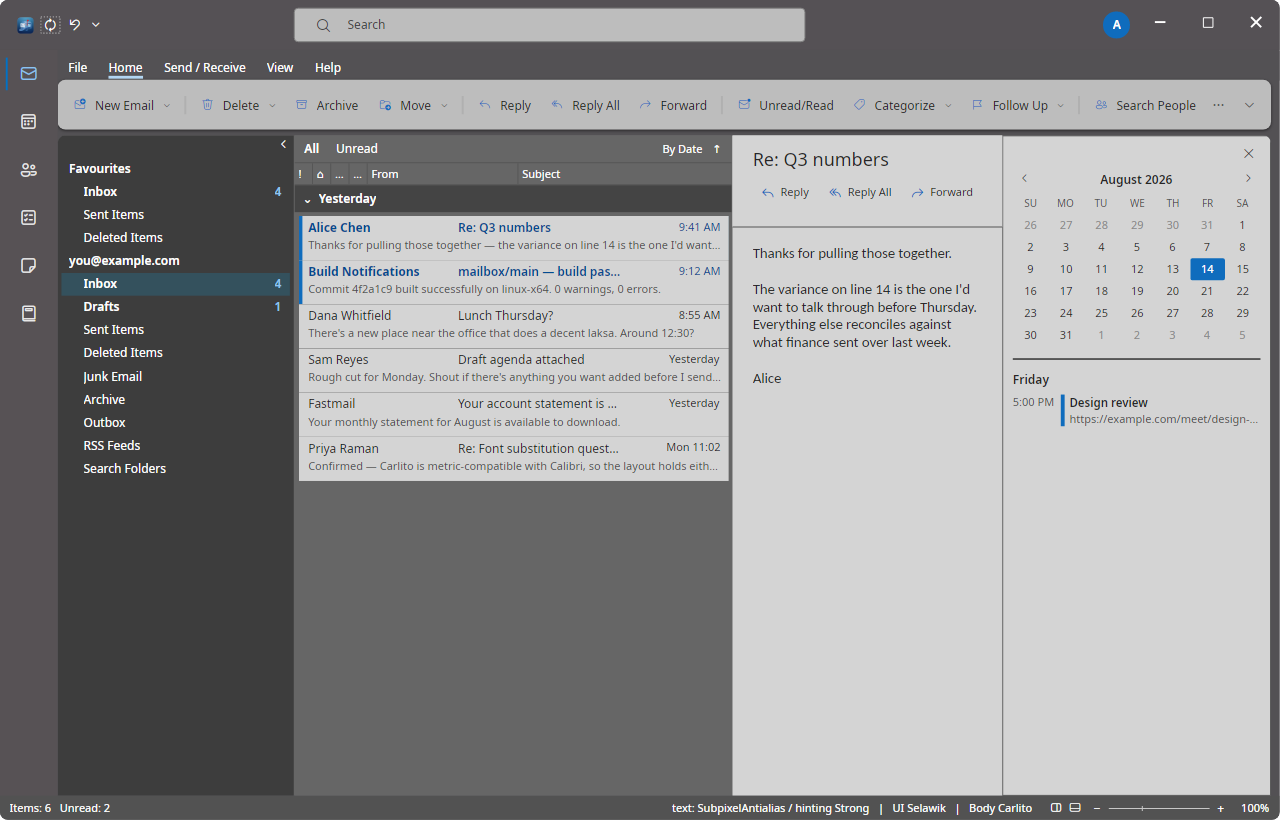
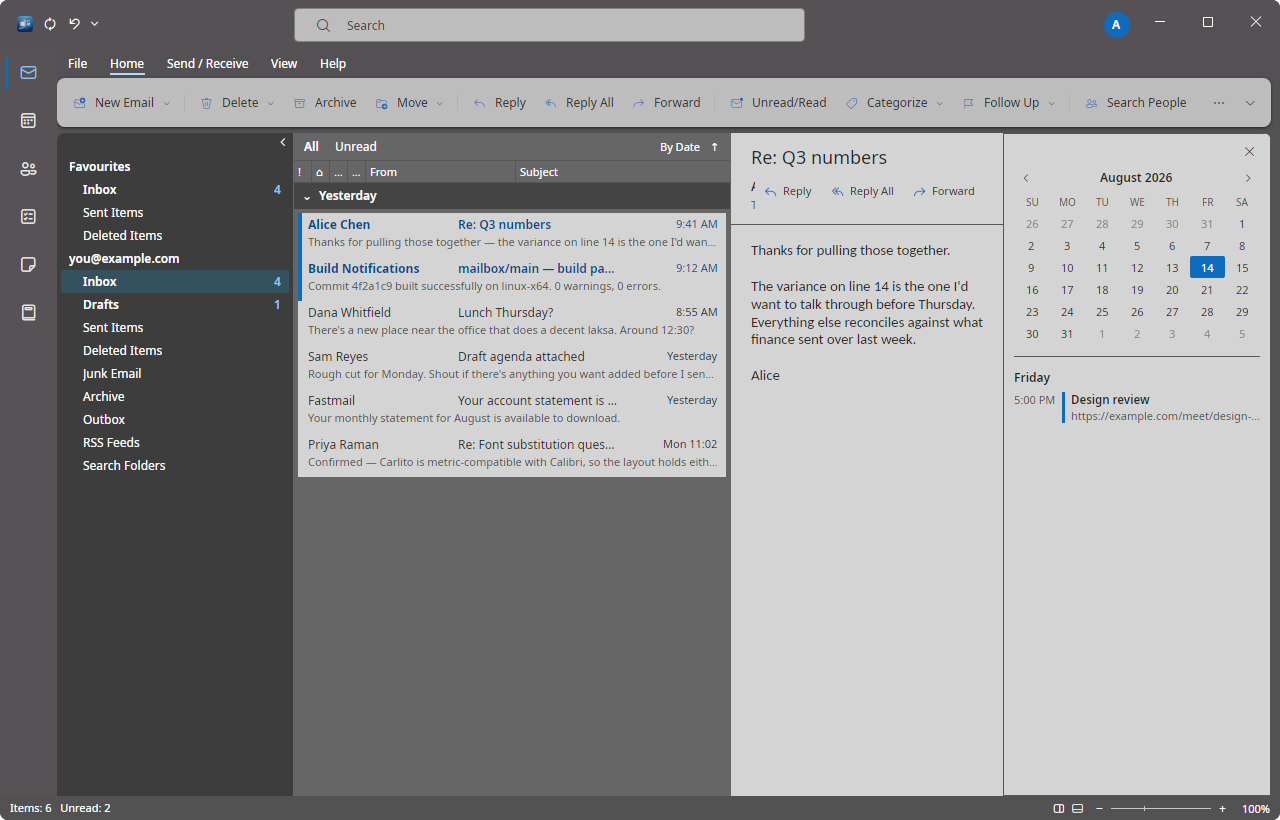
Make the control theme follow our palette, and clear the footer
Menu flyouts in the light themes were dark text on dark ground, legible
only while hovered. The control theme supplies the templates and those
templates reach for its palette rather than ours, so every surface not
explicitly restyled painted in its scheme — the item background was
transparent, which is why hovering, and only hovering, looked right.

ControlThemePalette repoints that palette at the tokens. It fixes every
such surface at once and keeps fixing them for controls nobody has
styled yet; restyling each presenter as it is noticed is the same bug
found repeatedly. The map is kept out of the Avalonia layer so a test
can check it, since popups are separate surfaces on Linux and never
appear in a window capture.

The status bar also carried the text-rendering diagnostics across it.
Those belong in the log; the reference's bar carries the counts and
nothing else.

diff --git a/src/Mailbox.Theming/Tokens/ControlThemePalette.cs b/src/Mailbox.Theming/Tokens/ControlThemePalette.cs
@@ -1,0 +1,48 @@
+namespace Mailbox.Theming.Tokens;
+
+/// <summary>
+/// Maps the control theme's own palette onto ours.
+/// </summary>
+/// <remarks>
+/// The control theme supplies templates, and those templates reach for <em>its</em> palette
+/// rather than the token set. Anywhere a template paints a surface that has not been explicitly
+/// restyled, its scheme shows through: menu flyouts arrived on a dark presenter in the light
+/// themes, with our dark text on top, readable only where a hover lit the row behind it.
+/// <para>
+/// Repointing the palette at the root fixes every such surface at once, and goes on fixing them
+/// for controls nobody has styled yet. Chasing each presenter as it is noticed is the same bug
+/// discovered repeatedly.
+/// </para>
+/// </remarks>
+public static class ControlThemePalette
+{
+    /// <summary>Control-theme brush key paired with the token that should drive it.</summary>
+    public static readonly IReadOnlyList<(string Key, string Token)> Map =
+    [
+        ("ThemeBackgroundBrush", TokenKeys.Surface.Ground),
+        ("ThemeForegroundBrush", TokenKeys.Text.Primary),
+        ("ThemeForegroundLowBrush", TokenKeys.Text.Secondary),
+        ("ThemeBorderLowBrush", TokenKeys.Border.Subtle),
+        ("ThemeBorderMidBrush", TokenKeys.Border.Subtle),
+        ("ThemeBorderHighBrush", TokenKeys.Border.Strong),
+        ("ThemeControlLowBrush", TokenKeys.Surface.Sunken),
+        ("ThemeControlMidBrush", TokenKeys.Surface.Raised),
+        ("ThemeControlMidHighBrush", TokenKeys.State.Hover),
+        ("ThemeControlHighBrush", TokenKeys.State.Pressed),
+        ("ThemeAccentBrush", TokenKeys.Accent.Rest),
+        ("ThemeAccentBrush2", TokenKeys.Accent.Hover),
+        ("HighlightBrush", TokenKeys.Accent.Rest),
+        ("HighlightForegroundBrush", TokenKeys.Text.OnAccent),
+        ("ErrorBrush", TokenKeys.Status.Danger),
+        ("ErrorLowBrush", TokenKeys.Status.Danger),
+    ];
+
+    /// <summary>Resolves the map against a theme, skipping anything it does not define.</summary>
+    public static IEnumerable<(string Key, string Value)> Resolve(ResolvedTokens tokens)
+    {
+        foreach (var (key, token) in Map)
+        {
+            if (tokens.TryGetString(token, out var value)) yield return (key, value);
+        }
+    }
+}

diff --git a/src/Mailbox.App/Views/MainWindow.axaml.cs b/src/Mailbox.App/Views/MainWindow.axaml.cs
@@ -5,6 +5,7 @@ using Avalonia.Markup.Xaml;
 using Mailbox.App.Theming;
 using Mailbox.App.ViewModels;
 using Mailbox.Controls.Ribbon;
+using Mailbox.Core.Diagnostics;
 using Mailbox.Core;
 using Mailbox.Core.Commands;
 using Mailbox.Core.Ribbon;
@@ -42,13 +43,13 @@ public partial class MainWindow : Window
         _ribbon.BackstageRequested += (_, _) => ShowBackstage();
         this.FindControl<ContentControl>("RibbonHost")!.Content = _ribbon;
 
-        var shell = new ShellViewModel(App.Themes, App.Commands, layout, layoutMode)
-        {
-            // Phase 0 surfaces rendering diagnostics where the connection state will later go.
-            StatusRight = $"{TextRendering.Describe()}   |   "
-                        + $"UI {App.Fonts.Resolve("Segoe UI").Rendered}   |   "
-                        + $"Body {App.Fonts.Resolve("Calibri").Rendered}",
-        };
+        // The rendering diagnostics the text investigation needs go to the log, not the status
+        // bar. In the reference the bar carries the item counts and nothing else.
+        Log.Info($"Text rendering: {TextRendering.Describe()}");
+        Log.Info($"UI font: {App.Fonts.Resolve("Segoe UI").Rendered}");
+        Log.Info($"Body font: {App.Fonts.Resolve("Calibri").Rendered}");
+
+        var shell = new ShellViewModel(App.Themes, App.Commands, layout, layoutMode);
 
         WireRail(shell);
         DataContext = shell;
@@ -60,6 +61,15 @@ public partial class MainWindow : Window
             case "calendar": Opened += (_, _) => TogglePeek(); break;
             case "docked": Opened += (_, _) => DockPeek(); break;
             case "backstage": Opened += (_, _) => ShowBackstage(); break;
+
+            // Opens the ribbon's display-options menu, so a capture can check a popup's colours.
+            case "menu":
+                Opened += async (_, _) =>
+                {
+                    _ribbon?.OpenDisplayOptions();
+                    await Task.Yield();
+                };
+                break;
 
             // Options is its own window, so the harness captures that rather than the shell.
             case "options":

diff --git a/tests/Mailbox.Tests/ThemingTests.cs b/tests/Mailbox.Tests/ThemingTests.cs
@@ -330,4 +330,34 @@ public class ThemeServiceTests
         Assert.Equal(nav, service.Tokens.GetString(TokenKeys.Nav.Background));
         Assert.Equal(list, service.Tokens.GetString(TokenKeys.List.Background));
     }
+
+    /// <summary>
+    /// The control theme's palette has to follow ours, or its templates paint their own scheme
+    /// wherever we have not explicitly restyled a surface. That is how the light themes ended
+    /// up with menu flyouts on a dark presenter: dark text on dark ground, legible only under
+    /// the hover highlight.
+    /// </summary>
+    [Fact]
+    public void ControlThemePaletteFollowsTheTokens()
+    {
+        foreach (var id in OfficeThemes.All)
+        {
+            var service = Service();
+            service.Apply(id);
+
+            var resolved = ControlThemePalette.Resolve(service.Tokens)
+                .ToDictionary(p => p.Key, p => p.Value);
+
+            Assert.Equal(ControlThemePalette.Map.Count, resolved.Count);
+
+            // The pairing that actually matters: a popup's ground and the text drawn on it.
+            Assert.Equal(
+                service.Tokens.GetString(TokenKeys.Surface.Ground),
+                resolved["ThemeBackgroundBrush"]);
+            Assert.Equal(
+                service.Tokens.GetString(TokenKeys.Text.Primary),
+                resolved["ThemeForegroundBrush"]);
+            Assert.NotEqual(resolved["ThemeBackgroundBrush"], resolved["ThemeForegroundBrush"]);
+        }
+    }
 }

diff --git a/src/Mailbox.Controls.Ribbon/RibbonView.cs b/src/Mailbox.Controls.Ribbon/RibbonView.cs
@@ -31,6 +31,7 @@ public sealed class RibbonView : ContentControl
     private readonly CommandCatalog _catalog;
     private RibbonLayout _layout;
     private string _activeTabId;
+    private Button? _displayOptions;
 
     public RibbonView(CommandCatalog catalog, RibbonLayout layout)
     {
@@ -40,6 +41,13 @@ public sealed class RibbonView : ContentControl
         _activeTabId = layout.Tabs.FirstOrDefault(t => !t.IsBackstage)?.Id ?? string.Empty;
         Rebuild();
     }
+
+    /// <summary>
+    /// Drops the Ribbon Display Options menu open so the fidelity harness can photograph it.
+    /// A menu that no capture ever opens is a menu whose colours go unchecked — which is how
+    /// the light themes shipped with dark-on-dark items, legible only while hovered.
+    /// </summary>
+    public void OpenDisplayOptions() => _displayOptions?.Flyout?.ShowAt(_displayOptions);
 
     public event EventHandler<RibbonCommandEventArgs>? CommandInvoked;
 
@@ -253,6 +261,7 @@ public sealed class RibbonView : ContentControl
         var chevron = BuildGlyphButton("chevron-down", "Ribbon Display Options", 14, () => { });
         chevron.HorizontalAlignment = HorizontalAlignment.Right;
         chevron.Flyout = BuildDisplayOptionsMenu();
+        _displayOptions = chevron;
         trailing.Children.Add(chevron);
 
         var grid = new Grid { ColumnDefinitions = new ColumnDefinitions("*,Auto") };

diff --git a/src/Mailbox.App/ViewModels/ShellViewModel.cs b/src/Mailbox.App/ViewModels/ShellViewModel.cs
@@ -368,14 +368,15 @@ public sealed class ShellViewModel : ObservableObject
         $"Items: {Messages.Count}   Unread: {Messages.Count(m => m.IsUnread)}";
 
     /// <summary>
-    /// Phase 0 shows the rendering diagnostics that the text-rendering investigation needs.
-    /// Replaced by the real connection state once accounts exist in Phase 2.
+    /// Empty at rest — the reference's status bar carries the counts on the left and the view
+    /// and zoom controls on the right, with nothing between them. Transient messages land here
+    /// and the connection state will once accounts exist in Phase 2.
     /// </summary>
     public string StatusRight
     {
         get;
         set { if (Set(ref field, value)) Raise(); }
-    } = "Connected";
+    } = string.Empty;
 }
 
 /// <summary>One header cell in the message list's column strip.</summary>

diff --git a/src/Mailbox.App/Theming/ThemeResourceBridge.cs b/src/Mailbox.App/Theming/ThemeResourceBridge.cs
@@ -77,5 +77,22 @@ public sealed class ThemeResourceBridge
         {
             _target["mono.fontfamily"] = new FontFamily(monoFamily);
         }
+
+        PublishControlThemePalette(tokens);
+    }
+
+    /// <summary>
+    /// Publishes the control theme's own palette from our tokens. The mapping itself lives in
+    /// <see cref="ControlThemePalette"/>, where it can be tested without a UI thread.
+    /// </summary>
+    private void PublishControlThemePalette(ResolvedTokens tokens)
+    {
+        foreach (var (key, value) in ControlThemePalette.Resolve(tokens))
+        {
+            if (!Color.TryParse(value, out var color)) continue;
+
+            _target[key] = new ImmutableSolidColorBrush(color);
+            _target[key.Replace("Brush", "Color")] = color;
+        }
     }
 }
